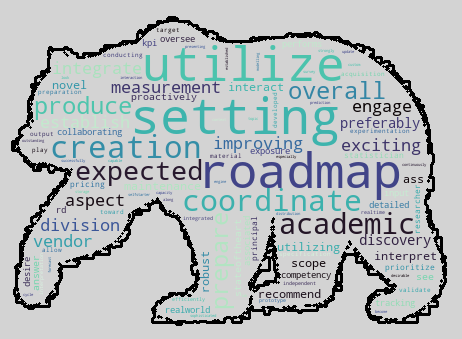
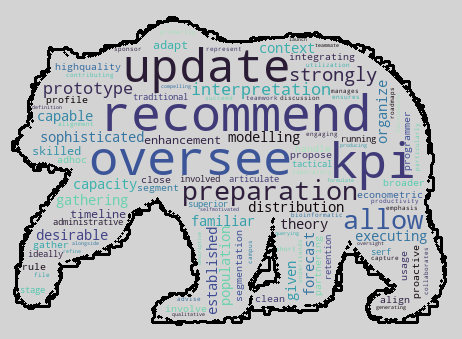
finished parsing monograms down to session

Changed region(s): [[0.0303, 0.0885, 0.9394, 0.944]]

diff --git a/nlp_main.py b/nlp_main.py
@@ -371,7 +371,178 @@ def clean_for_nlp(series_of_interest):
                                             '85000', 'property', 'casualty', 'mass', 'brigham', 'driver', 'license',
                                             'second', 'dose', 'investigator', 'pittsburgh', 'pa', 'attract', 'retain',
                                             'catered', 'lunch', 'booster', 'shot', 'maternity', 'prohibited', 'behavior',
-                                            'exceptional']))) + ds_skills_combined
+                                            'exceptional', 'energy',
+                                             'aspect',
+                                             'expected',
+                                             'discovery',
+                                             'setting',
+                                             'material',
+                                             'produce',
+                                             'see',
+                                             'improving',
+                                             'academic',
+                                             'startup',
+                                             'exciting',
+                                             'recognized',
+                                             'contribution',
+                                             'answer',
+                                             'creation',
+                                             'play',
+                                             'robust',
+                                             'payment',
+                                             'integrate',
+                                             'class',
+                                             'explore',
+                                             'overall',
+                                             'establish',
+                                             'move',
+                                             'integrated',
+                                             'three',
+                                             'desire',
+                                             'obtain',
+                                             'pricing',
+                                             'regular',
+                                             'maintenance',
+                                             'interested',
+                                             'along',
+                                             'increase',
+                                             'utilize',
+                                             'manufacturing',
+                                             'built',
+                                             'acquisition',
+                                             'engage',
+                                             'thats',
+                                             'submit',
+                                             'roadmap',
+                                             'coordinate',
+                                             'prepare',
+                                             'utilizing',
+                                             'foundation',
+                                             'encourage',
+                                             'cycle',
+                                             'course',
+                                             'vendor',
+                                             'become',
+                                             'device',
+                                             'smart',
+                                             'ass',
+                                             'effectiveness',
+                                             'mean',
+                                             'adoption',
+                                             'located',
+                                             'preferably',
+                                             'division',
+                                             'mindset',
+                                             'scope',
+                                             'exposure',
+                                             'progress',
+                                             'transforming',
+                                             'lab',
+                                             'enabling',
+                                             'interaction',
+                                             'look',
+                                             'promote',
+                                             'example',
+                                             'foster',
+                                             'specification',
+                                             'associated',
+                                             'daily',
+                                             'realtime',
+                                             'campaign',
+                                             'independent',
+                                             'storage',
+                                             'competency',
+                                             'website',
+                                             'medicine',
+                                             'incentive',
+                                             'follow',
+                                             'facility',
+                                             'coverage',
+                                             'validate',
+                                             'continuously',
+                                             'defining',
+                                             'bank',
+                                             'serving',
+                                             'claim',
+                                             'creativity',
+                                             'entire',
+                                             'outstanding',
+                                             'successfully',
+                                             'excited',
+                                             'conducting',
+                                             'actively',
+                                             'input',
+                                             'realworld',
+                                             'gain',
+                                             'principal',
+                                             'onsite',
+                                             'towards',
+                                             'selection',
+                                             'accelerate',
+                                             'among',
+                                             'presenting',
+                                             'output',
+                                             'worldwide',
+                                             'generous',
+                                             'channel',
+                                             'video',
+                                             'special',
+                                             'taking',
+                                             'advertising',
+                                             'prediction',
+                                             'selected',
+                                             'custom',
+                                             'posting',
+                                             'title',
+                                             'accountability',
+                                             'corporation',
+                                             'especially',
+                                             'tracking',
+                                             'target',
+                                             'industrial',
+                                             'advantage',
+                                             'secure',
+                                             'performs',
+                                             'game',
+                                             'transportation',
+                                             'five',
+                                             'founded',
+                                             'art',
+                                             'survey',
+                                             'format',
+                                             'equipment',
+                                             'even',
+                                             'specialist',
+                                             'creates',
+                                             'situation',
+                                             'simple',
+                                             'nation',
+                                             'safe',
+                                             'shared',
+                                             'delivers',
+                                             'step',
+                                             'ecommerce',
+                                             'visual',
+                                             'intelligent',
+                                             'applies',
+                                             'sustainable',
+                                             'dod',
+                                             'topic',
+                                             'personnel',
+                                             'dont',
+                                             'assignment',
+                                             'welcome',
+                                             'willing',
+                                             'phase',
+                                             'preference',
+                                             'combine',
+                                             'accessible',
+                                             'defined',
+                                             'back',
+                                             'specifically',
+                                             'budget',
+                                             'evaluating',
+                                             'either']))) + ds_skills_combined
     
     stop_words = nltk.corpus.stopwords.words('english') + additional_stopwords + ds_cred_terms + ds_prof_skill_terms + ds_soft_skill_terms + ds_tech_skill_terms
     
@@ -636,7 +807,7 @@ def utilities():
     
     # script for cleaning up the n_grams series and converting it to a list
     strip_end = [x[:-3] for x in n_grams.index]
-    clean_list = [x[2:] for x in strip_end]
+    clean_ngram_list = [x[2:] for x in strip_end]
 
 
 def main_program():
@@ -725,6 +896,7 @@ ds_cred_terms = ['ability',
                  'related',
                  'relevant',
                  'research',
+                 'researcher',
                  'school',
                  'science',
                  'scientist',
@@ -735,6 +907,7 @@ ds_cred_terms = ['ability',
                  'solid', 
                  'statistic',
                  'statistics',
+                 'statistician',
                  'stem',
                  'system', 
                  'technical',
@@ -784,6 +957,7 @@ ds_tech_skill_terms = ['ab',
                      'asaservice',
                      'automated',
                      'automation', 
+                     'automate',
                      'aws', 
                      'azure',
                      'bayes',
@@ -835,6 +1009,7 @@ ds_tech_skill_terms = ['ab',
                      'designing',
                      'detection',
                      'develop',
+                     'developed',
                      'develops',
                      'developer',
                      'developing',
@@ -849,6 +1024,7 @@ ds_tech_skill_terms = ['ab',
                      'edge',
                      'emerging',
                      'endtoend',
+                     'engine',
                      'engineer',
                      'engineering',
                      'enterprise',
@@ -859,6 +1035,7 @@ ds_tech_skill_terms = ['ab',
                      'excel',
                      'experiment',
                      'experimental', 
+                     'experimentation',
                      'exploration',
                      'exploratory',
                      'extract', 
@@ -878,6 +1055,7 @@ ds_tech_skill_terms = ['ab',
                      'git',
                      'google',
                      'gradient', 
+                     'graph',
                      'hadoop',
                      'hardware',
                      'hidden',
@@ -925,6 +1103,7 @@ ds_tech_skill_terms = ['ab',
                      'mathematics',
                      'matlab',
                      'measure',
+                     'measurement',
                      'method',
                      'methodology',
                      'metric',
@@ -952,6 +1131,8 @@ ds_tech_skill_terms = ['ab',
                      'optimal',
                      'optimize',
                      'optimization',
+                     'optimizing',
+                     'oracle',
                      'panda', 
                      'pattern', 
                      'pipeline',
@@ -976,6 +1157,7 @@ ds_tech_skill_terms = ['ab',
                      'query',
                      'relational', 
                      'r',
+                     'rd',
                      'random', 
                      'raw',
                      'recognition',
@@ -1027,6 +1209,8 @@ ds_tech_skill_terms = ['ab',
                      'statistic',
                      'statistics',
                      'statistical',
+                     'statistician',
+                     'stateoftheart',
                      'store',
                      'structured',
                      'supervised', 
@@ -1088,6 +1272,7 @@ ds_soft_skill_terms = ['ad',
                      'collaborative',
                      'collaboration',
                      'collaboratively',
+                     'collaborating',
                      'communicate',
                      'communicating', 
                      'communication',
@@ -1098,6 +1283,7 @@ ds_soft_skill_terms = ['ad',
                      'confluence',
                      'connect',
                      'consulting',
+                     'consultant',
                      'continuous', 
                      'contribute',
                      'contributor',
@@ -1112,10 +1298,12 @@ ds_soft_skill_terms = ['ad',
                      'deliver',
                      'delivering',
                      'detail',
+                     'detailed',
                      'draw', 
                      'dynamic',
                      'efficient',
                      'efficiency',
+                     'efficiently',
                      'effectively',
                      'environment',
                      'ethic',
@@ -1129,6 +1317,7 @@ ds_soft_skill_terms = ['ad',
                      'fastpaced',
                      'finding',
                      'flexible',
+                     'flexibility',
                      'focus',
                      'git',
                      'guidance',
@@ -1139,18 +1328,22 @@ ds_soft_skill_terms = ['ad',
                      'idea',
                      'jira', 
                      'impact',
+                     'impactful',
                      'improvement',
                      'independently',
                      'individual', 
                      'influence',
                      'initiative',
                      'innovation',
+                     'innovate',
                      'innovator',
                      'intelligence',
                      'intellectual', 
                      'intellectually',
+                     'interact',
                      'interdisciplinary',
                      'interpersonal',
+                     'interpret',
                      'judgment',
                      'learn',
                      'level',
@@ -1163,6 +1356,7 @@ ds_soft_skill_terms = ['ad',
                      'motivated',
                      'multidisciplinary',
                      'nontechnical', 
+                     'novel',
                      'oral',
                      'organization',
                      'oriented',
@@ -1179,6 +1373,8 @@ ds_soft_skill_terms = ['ad',
                      'presentation',
                      'priority',
                      'prioritizing',
+                     'prioritize',
+                     'proactively',
                      'problem', 
                      'problemsolving',
                      'push', 
@@ -1189,11 +1385,13 @@ ds_soft_skill_terms = ['ad',
                      'report',
                      'respect',
                      'root', 
+                     'selfstarter',
                      'simultaneously',
                      'skill',
                      'solve',
                      'solver',
                      'solving',
+                     'speed',
                      'strong',
                      'structure',
                      'study',
@@ -1281,6 +1479,7 @@ ds_prof_skill_terms = ['ability',
                        'identify', 
                        'identifying',
                        'impact',
+                       'impactful',
                        'improve',
                        'improvement',
                        'inform',
@@ -1326,6 +1525,8 @@ ds_prof_skill_terms = ['ability',
                        'professional',
                        'program',
                        'project', 
+                       'proposal',
+                       'prototype,'
                        'prototyping',
                        'proven',
                        'question',
